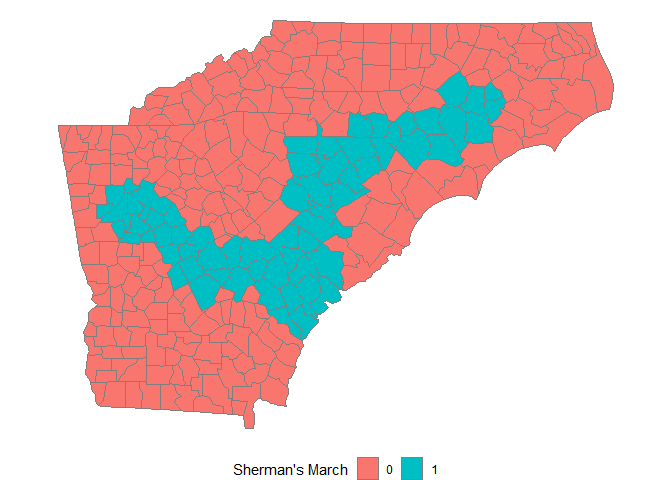
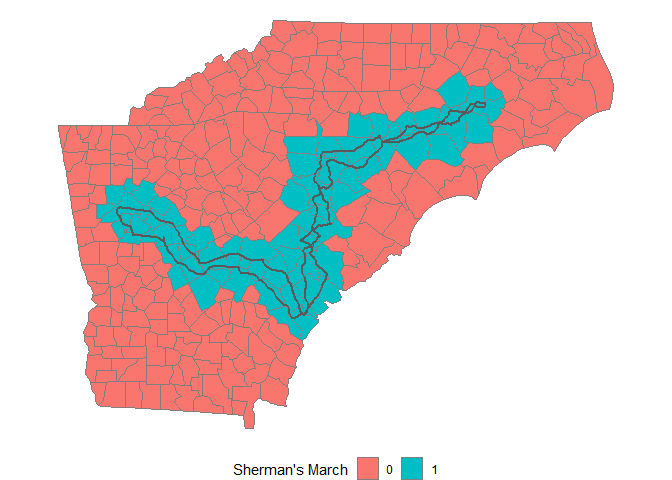
add map plots

diff --git a/code.md b/code.md
@@ -30,17 +30,8 @@ sherman_march_map <- st_read(here::here("maps/sherman_march/sherman_march_shapef
 counties  <- us_counties(states = c("Georgia", "North Carolina", "South Carolina")) %>% 
   mutate(fips = as.numeric(paste0(statefp, countyfp)))
 
-counties_1860  <- us_counties(states = c("1860-09-17", "Georgia", "North Carolina", "South Carolina")) %>% 
+counties_1860  <- us_counties(states = c("1866-09-17", "Georgia", "North Carolina", "South Carolina")) %>% 
   mutate(fips = as.numeric(paste0(statefp, countyfp)))
-
-plot(counties_1860$geometry)
-plot(counties$geometry)
-```
-
-![](code_files/figure-markdown_github/unnamed-chunk-1-1.png)
-
-``` r
-#str(counties)
 ```
 
 ``` r
@@ -54,7 +45,6 @@ march_buffer_5miles <- sherman_march_map %>%
   st_buffer(dist = 8046.72, nQuadSegs = 1) 
 
 
-
 #mapview(counties)
 ```
 
@@ -63,7 +53,7 @@ march_counties <- counties %>%
   st_transform(crs = 7801) %>% 
   st_intersection(march_buffer_5miles) %>% 
   st_set_geometry(NULL) %>% 
- # st_transform(crs = "+proj=longlat +datum=WGS84 +no_defs") %>% 
+  distinct(fips) %>% #count(fips, sort = T)
   dplyr::select(fips) %>% 
   mutate(march = 1)
 ```
@@ -79,7 +69,7 @@ counties <- counties %>%
 counties %>% 
   ggplot(aes(fill = as.factor(march))) +
     geom_sf(color = "gray50", size = 0.5) +
-   # geom_sf(data = st_transform(march_counties, crs = "+proj=longlat +datum=WGS84 +no_defs"), fill = "gray50")+
+    geom_sf(data = st_transform(sherman_march_map, crs = "+proj=longlat +datum=WGS84 +no_defs"), fill = "black", size = 1)+
     theme_void() +
     coord_sf(crs = "+proj=longlat +datum=WGS84 +no_defs", ndiscr = F) + 
     labs(fill = "Sherman's March") + 
@@ -90,67 +80,67 @@ counties %>%
 
 ``` r
 county_data <- read_csv("data/acharya_et_al_2016_county_data.csv")
-```
 
-    ## Warning: Missing column names filled in: 'X1' [1]
-
-    ## Parsed with column specification:
-    ## cols(
-    ##   .default = col_double(),
-    ##   X1 = col_integer(),
-    ##   state.abb = col_character(),
-    ##   fips = col_integer(),
-    ##   county_name = col_character(),
-    ##   coarea = col_integer(),
-    ##   rail1860 = col_integer(),
-    ##   water1860 = col_integer(),
-    ##   nmatch.diff.20 = col_integer(),
-    ##   totpop00 = col_integer(),
-    ##   medinc00 = col_integer(),
-    ##   livstock = col_integer(),
-    ##   livstock1870 = col_integer(),
-    ##   farmval = col_integer(),
-    ##   farmval1870 = col_integer(),
-    ##   totpop1880 = col_integer(),
-    ##   totpop1890 = col_integer(),
-    ##   totpop10 = col_integer(),
-    ##   totpop20 = col_integer(),
-    ##   totpop30 = col_integer(),
-    ##   totpop40 = col_integer()
-    ##   # ... with 10 more columns
-    ## )
-
-    ## See spec(...) for full column specifications.
-
-``` r
 county_data <- county_data %>% 
   right_join(counties, by = c("fips"))
 
+#county_data <- county_data %>% 
+#  full_join(counties, by = c("fips")) %>% 
+#  mutate(march = ifelse(is.na(march), 0, march))
+```
 
-lm(pdem1852 ~ march + pslave1860, data = county_data) %>% 
+``` r
+county_data %>% 
+  ggplot(aes(fill = pslave1860)) +
+    geom_sf(color = "gray50", size = 0.5) +
+    geom_sf(data = st_transform(sherman_march_map, crs = "+proj=longlat +datum=WGS84 +no_defs"), fill = "black", size = 2)+
+    theme_void() +
+    coord_sf(crs = "+proj=longlat +datum=WGS84 +no_defs", ndiscr = F) + 
+    labs(fill = "Proportion of slaves in 1860") +
+    scale_fill_gradient(low = "white", high = "red")
+```
+
+![](code_files/figure-markdown_github/unnamed-chunk-6-1.png)
+
+``` r
+county_data %>% 
+  ggplot(aes(fill = pdem1900)) +
+    geom_sf(color = "gray50", size = 0.5) +
+    geom_sf(data = st_transform(sherman_march_map, crs = "+proj=longlat +datum=WGS84 +no_defs"), fill = "black", size = 2)+
+    theme_void() +
+    coord_sf(crs = "+proj=longlat +datum=WGS84 +no_defs", ndiscr = F) + 
+    labs(fill = "Proportion of vote for Democrats  in 1900") +
+    scale_fill_gradient(low = "white", high = "red") +
+   theme(legend.position="bottom")
+```
+
+![](code_files/figure-markdown_github/unnamed-chunk-7-1.png)
+
+``` r
+lm(lynchrate ~ march + pslave1860, data = county_data) %>% 
   summary()
 ```
 
     ## 
     ## Call:
-    ## lm(formula = pdem1852 ~ march + pslave1860, data = county_data)
+    ## lm(formula = lynchrate ~ march + pslave1860, data = county_data)
     ## 
     ## Residuals:
-    ##     Min      1Q  Median      3Q     Max 
-    ## -42.649 -10.302  -0.401  12.923  43.779 
+    ##        Min         1Q     Median         3Q        Max 
+    ## -2.402e-04 -9.869e-05 -5.139e-05  3.769e-05  8.076e-04 
     ## 
     ## Coefficients:
-    ##             Estimate Std. Error t value Pr(>|t|)    
-    ## (Intercept)   43.989      3.206   13.72   <2e-16 ***
-    ## march          6.670      3.074    2.17   0.0313 *  
-    ## pslave1860    19.563      7.524    2.60   0.0101 *  
+    ##               Estimate Std. Error t value Pr(>|t|)    
+    ## (Intercept)  3.605e-05  2.054e-05   1.755   0.0803 .  
+    ## march       -3.791e-05  2.416e-05  -1.569   0.1177    
+    ## pslave1860   2.402e-04  4.969e-05   4.834 2.15e-06 ***
     ## ---
     ## Signif. codes:  0 '***' 0.001 '**' 0.01 '*' 0.05 '.' 0.1 ' ' 1
     ## 
-    ## Residual standard error: 18.57 on 184 degrees of freedom
-    ##   (154 observations deleted due to missingness)
-    ## Multiple R-squared:  0.07608,    Adjusted R-squared:  0.06604 
-    ## F-statistic: 7.576 on 2 and 184 DF,  p-value: 0.0006891
+    ## Residual standard error: 0.0001646 on 296 degrees of freedom
+    ##   (6 observations deleted due to missingness)
+    ## Multiple R-squared:  0.07319,    Adjusted R-squared:  0.06692 
+    ## F-statistic: 11.69 on 2 and 296 DF,  p-value: 1.303e-05
 
 ``` r
 fit_model <- function(dep_var, controls = ""){
@@ -178,7 +168,7 @@ pdem_march_coefs %>%
   theme_bw()
 ```
 
-![](code_files/figure-markdown_github/unnamed-chunk-6-1.png)
+![](code_files/figure-markdown_github/unnamed-chunk-9-1.png)
 
 ``` r
 pdem_march_coefs_slave_control <- map(pdem, ~ fit_model(dep_var = ., controls = "+ pslave1860")) %>% 
@@ -193,7 +183,7 @@ pdem_march_coefs_slave_control <- map(pdem, ~ fit_model(dep_var = ., controls = 
 pdem_march_coefs_slave_control %>% 
   ggplot(aes(x = year, y = estimate, ymin = conf.low, ymax = conf.high)) + 
   geom_pointrange() + 
-  theme_bw()
+  theme_bw() + geom_hline(yintercept = 0, col = "black")
 ```
 
-![](code_files/figure-markdown_github/unnamed-chunk-8-1.png)
+![](code_files/figure-markdown_github/unnamed-chunk-11-1.png)
